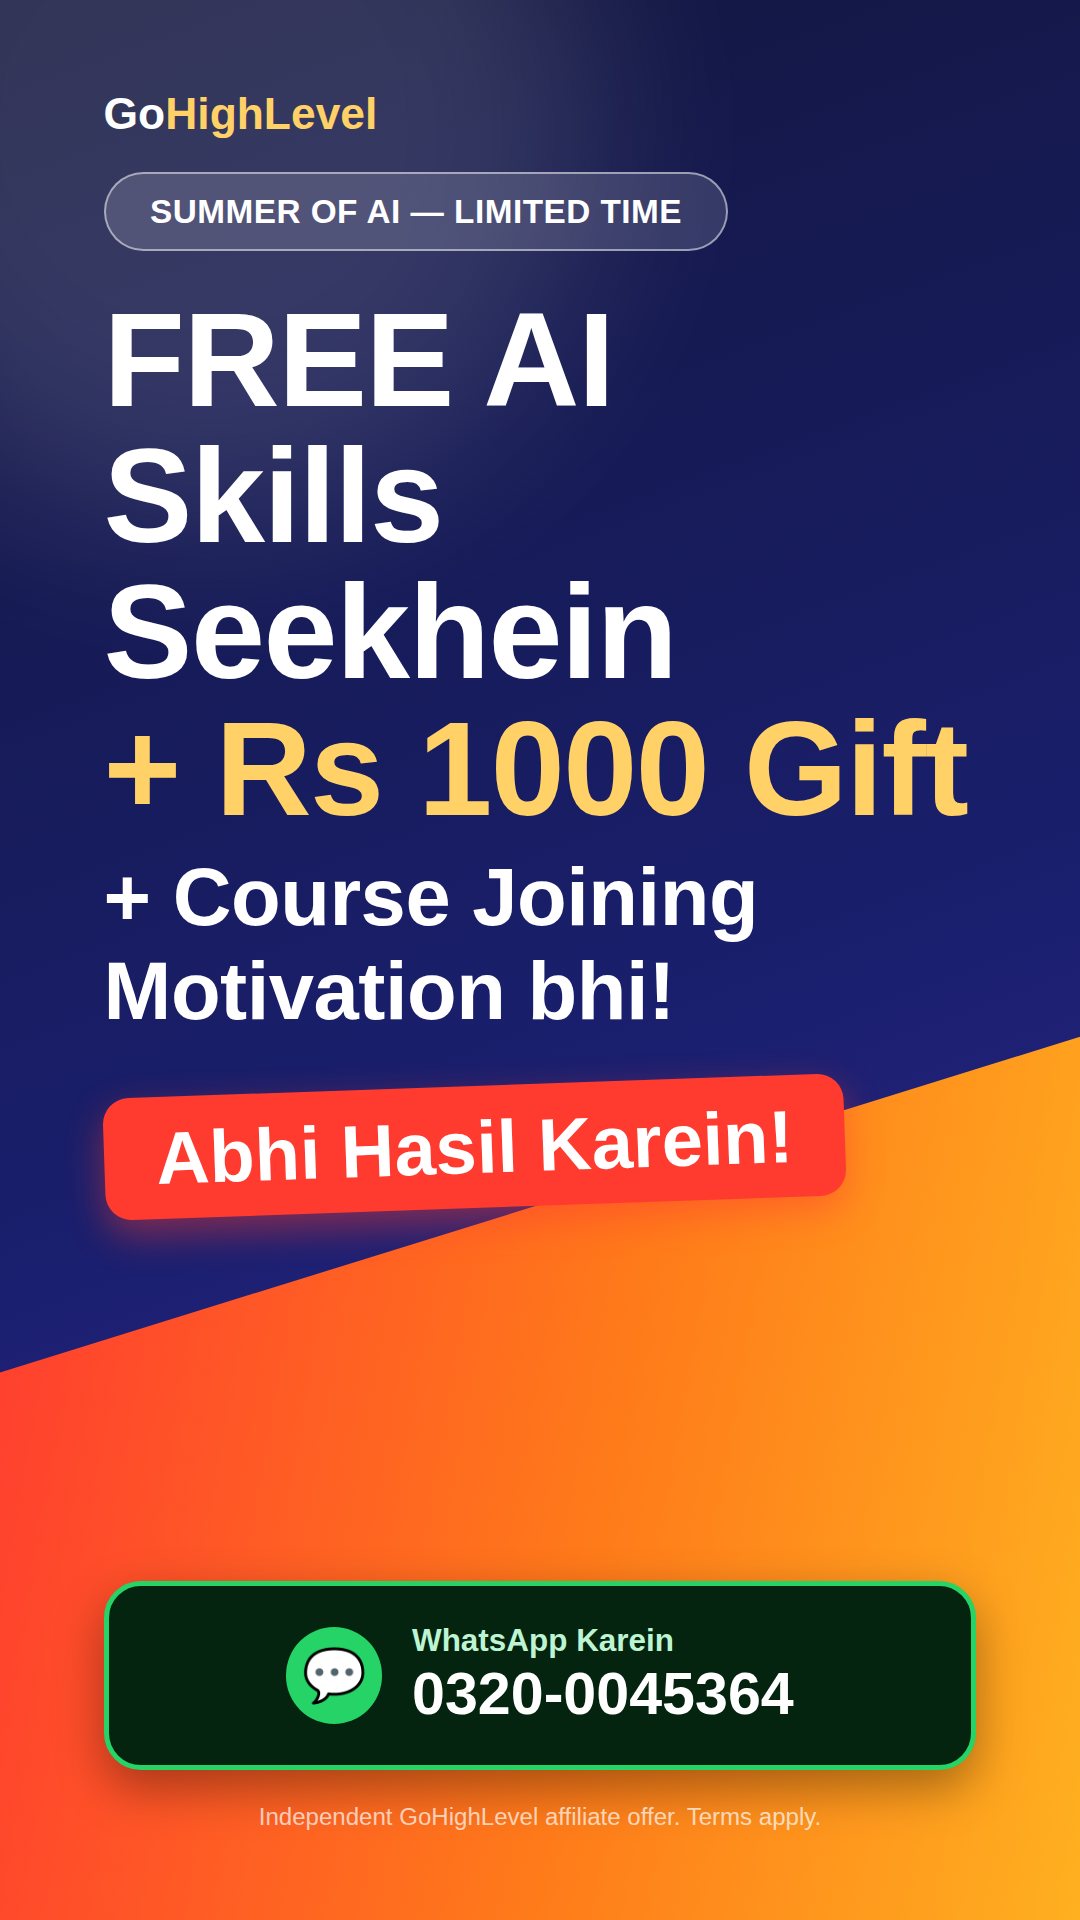
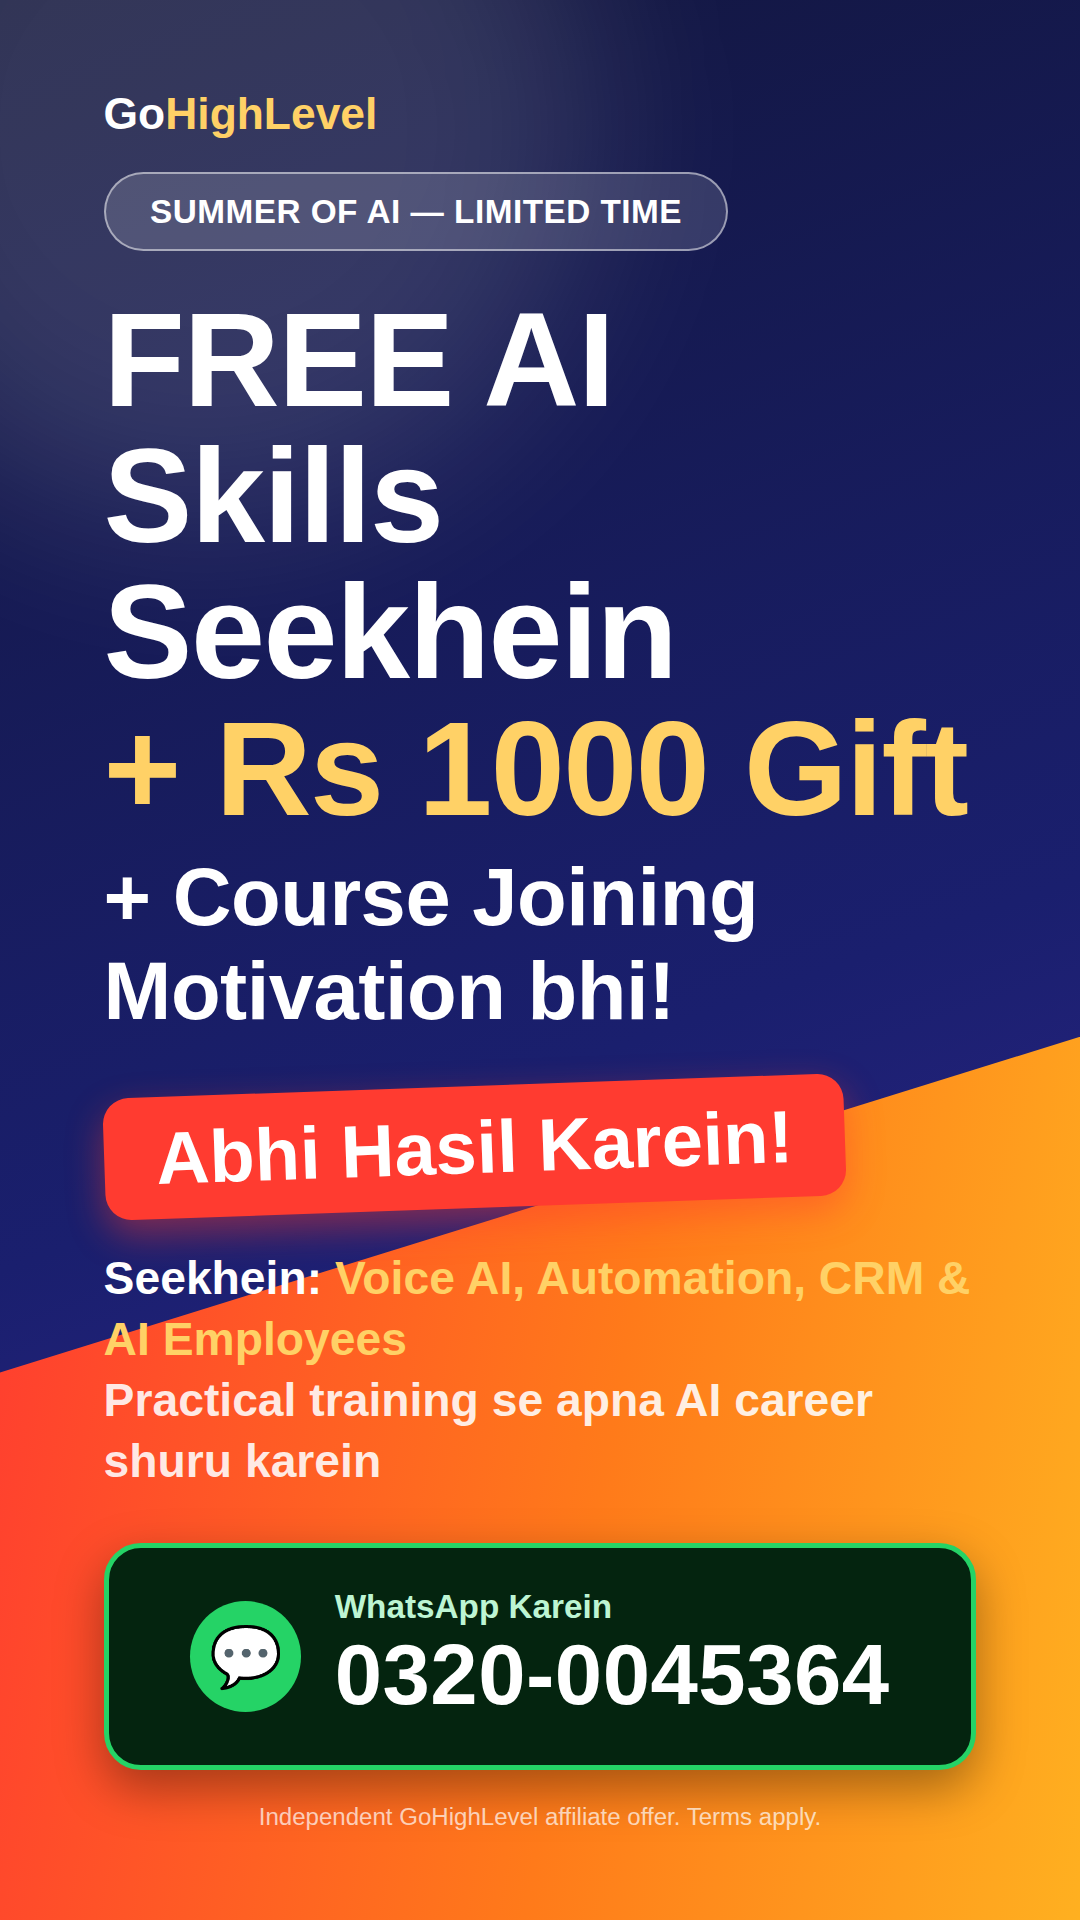
Enlarge WhatsApp number and add course-content line to Pakistan ads
Bumped the WhatsApp number font size from 32x to 46x scale so it reads
as the clearest element on the CTA bar. Added a 2-line course-content
blurb ("Seekhein: Voice AI, Automation, CRM & AI Employees" / "Practical
training se apna AI career shuru karein") between the urgency tag and
the CTA.

Changed region(s): [[0.0917, 0.6562, 0.9167, 0.9062], [0.7639, 0.6562, 0.8861, 0.6875]]

diff --git a/ads-source/gohighlevel-summer-of-ai-bold-pk/template.js b/ads-source/gohighlevel-summer-of-ai-bold-pk/template.js
@@ -38,26 +38,31 @@ function buildHtml({ width, height, scale }) {
   .headline .l3 { font-size:${44*s}px; font-weight:800; line-height:1.15; letter-spacing:-0.5px; color:#fff; margin-top:${6*s}px; }
 
   .punch {
-    align-self:flex-start; margin-top:${10*s}px; margin-bottom:${20*s}px;
+    align-self:flex-start; margin-top:${10*s}px; margin-bottom:${22*s}px;
     font-size:${40*s}px; font-weight:900; color:#fff; background:#ff3b30;
     padding:${10*s}px ${28*s}px; border-radius:${14*s}px; transform:rotate(-2deg);
     box-shadow:0 ${8*s}px ${20*s}px rgba(255,59,48,0.45);
   }
 
+  .courseinfo { text-align:left; margin-bottom:${8*s}px; }
+  .courseinfo .c1 { font-size:${25*s}px; font-weight:700; color:#fff; line-height:1.32; }
+  .courseinfo .c1 b { color:#ffd166; }
+  .courseinfo .c2 { font-size:${25*s}px; font-weight:700; color:rgba(255,255,255,0.88); line-height:1.32; }
+
   .spacer { flex:1 1 auto; }
 
   .waCta {
-    display:flex; align-items:center; gap:${16*s}px; background:#04240f; color:#fff;
-    border-radius:${20*s}px; padding:${20*s}px ${36*s}px; align-self:stretch; justify-content:center;
+    display:flex; align-items:center; gap:${18*s}px; background:#04240f; color:#fff;
+    border-radius:${20*s}px; padding:${22*s}px ${36*s}px; align-self:stretch; justify-content:center;
     box-shadow:0 ${10*s}px ${26*s}px rgba(0,0,0,0.35); border:${3*s}px solid #25D366; margin-bottom:${18*s}px;
   }
   .waCta .icon {
-    width:${52*s}px; height:${52*s}px; border-radius:50%; background:#25D366; display:flex; align-items:center;
-    justify-content:center; font-size:${28*s}px; flex:0 0 auto;
+    width:${60*s}px; height:${60*s}px; border-radius:50%; background:#25D366; display:flex; align-items:center;
+    justify-content:center; font-size:${32*s}px; flex:0 0 auto;
   }
   .waCta .txt { text-align:left; }
-  .waCta .txt .l1 { font-size:${17*s}px; font-weight:700; color:#bdf5d3; }
-  .waCta .txt .l2 { font-size:${32*s}px; font-weight:900; color:#fff; }
+  .waCta .txt .l1 { font-size:${18*s}px; font-weight:700; color:#bdf5d3; }
+  .waCta .txt .l2 { font-size:${46*s}px; font-weight:900; color:#fff; letter-spacing:0.5px; }
 
   .fine { position:relative; z-index:2; font-size:${13*s}px; color:rgba(255,255,255,0.7); text-align:center; }
 </style>
@@ -76,6 +81,10 @@ function buildHtml({ width, height, scale }) {
         <div class="l3">+ Course Joining Motivation bhi!</div>
       </div>
       <div class="punch">Abhi Hasil Karein!</div>
+      <div class="courseinfo">
+        <div class="c1">Seekhein: <b>Voice AI, Automation, CRM &amp; AI Employees</b></div>
+        <div class="c2">Practical training se apna AI career shuru karein</div>
+      </div>
       <div class="spacer"></div>
       <div class="waCta">
         <div class="icon">&#128172;</div>

diff --git a/ads-source/gohighlevel-summer-of-ai-bold-pk/README.md b/ads-source/gohighlevel-summer-of-ai-bold-pk/README.md
@@ -10,7 +10,12 @@ sale-banner-style layout, still hitting only the main points:
 2. **"+ Rs 1000 Gift"** — money hook, in yellow
 3. **"+ Course Joining Motivation bhi!"** — the specific phrase requested
 4. **"Abhi Hasil Karein!"** — red punch-tag urgency line
-5. **WhatsApp Karein — 0320-0045364** — the CTA
+5. **"Seekhein: Voice AI, Automation, CRM & AI Employees" / "Practical
+   training se apna AI career shuru karein"** — 2-line course-content blurb
+   (added per feedback), sitting between the punch tag and the CTA
+6. **WhatsApp Karein — 0320-0045364** — the CTA, with the number itself now
+   noticeably larger (46×scale vs the earlier 32×scale) so it's the most
+   readable line on the CTA bar
 
 Text sizes were bumped further per "make text more big more bold" — each
 format uses a different `scale` multiplier (1.08 / 1.38 / 1.85 for
@@ -31,10 +36,13 @@ expected and still reads fine.
    creative** — make sure whatever you deliver over WhatsApp (the 30-day
    training, encouragement, etc.) actually matches what someone would
    expect from that phrase.
-2. **Rs 1000 Gift + payout details are not spelled out on the image** —
+2. **"Voice AI, Automation, CRM & AI Employees" is now a specific curriculum
+   claim** — make sure the actual training covers these, since it's on the
+   creative now, not just implied.
+3. **Rs 1000 Gift + payout details are not spelled out on the image** —
    same as the previous version, you explain JazzCash/EasyPaisa/etc. and
    verify sign-ups yourself over WhatsApp.
-3. **Affiliate link still isn't on the image** — add your tracked link in
+4. **Affiliate link still isn't on the image** — add your tracked link in
    the caption/bio wherever you post these.
 
 ## Regenerating
